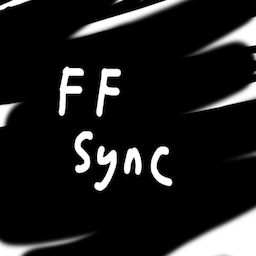
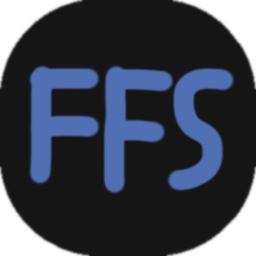
Reorganisation & Sm stuff

diff --git a/extension/popup/index.html b/extension/popup/index.html
@@ -1,32 +1,37 @@
-<!DOCTYPE html>
+<!doctype html>
 
 <head>
-    <link rel="stylesheet" href="index.css" />
+	<link rel="stylesheet" href="index.css" />
 </head>
 
 <html lang="en">
-    <body>
-        <div id="topbar" class="item">
-            <h3>FFSync</h3>
-            <p>Share Tabs Privately</p>
-        </div>
+	<body>
+		<div id="topbar" class="item">
+			<h3>FFSync</h3>
+			<p>Share Tabs Privately</p>
+		</div>
 
-        <div id="content" class="item">
-            <input type="text" placeholder="Enter homeserver" id="homeserver">
-            <div id="tabs">
-                <ul id="tablist" class="item">
-                    <li class="tab selected" data-tabid=-1>Current Tab</li>
-                </ul>
-            </div>
-            <button id="share"></button>
-        </div>
-        <sep ></sep>
-        <div id="status">
-            <p id="connection">No Connection.</p>
-            <p id="shared">No shared tab.</p>
-            <p id="duration">00:00 Elapsed.</p>
-        </div>
-    </body>
+		<div id="content" class="item">
+			<input type="text" placeholder="Enter homeserver" id="homeserver" />
+			<input
+				type="text"
+				placeholder="Homeserver password"
+				id="password"
+			/>
+			<div id="tabs">
+				<ul id="tablist" class="item">
+					<li class="tab selected" data-tabid="-1">Current Tab</li>
+				</ul>
+			</div>
+			<button id="share"></button>
+		</div>
+		<sep></sep>
+		<div id="status">
+			<p id="connection">No Connection.</p>
+			<p id="shared">No shared tab.</p>
+			<p id="duration">00:00 Elapsed.</p>
+		</div>
+	</body>
 </html>
 
-<script src="index.js"></script>
+<script src="index.js" type="module"></script>

diff --git a/extension/background.js b/extension/background.js
@@ -1,1 +1,1 @@
-"use strict";console.clear();console.log("[FFSync] BG Loaded");
+"use strict";(()=>{console.clear();console.log("[FFSync] BG Loaded");})();

diff --git a/extension/content.js b/extension/content.js
@@ -1,1 +1,1 @@
-"use strict";console.log("[FFSync] Content Loaded");
+"use strict";(()=>{console.log("[FFSync] Content Loaded");})();

diff --git a/extension/popup/index.js b/extension/popup/index.js
@@ -1,1 +1,1 @@
-"use strict";console.log("[FFSync] Index Loaded");const info_defaults={homeserver:"None",tab:"None",timestamp:Date.now()};let connection=false;async function connect(){connection=true;return{...info_defaults,homeserver:"https://relay.example.com",tab:"Tab Name"}}async function disconnect(){connection=false;return info_defaults}"use strict";let registry={ui_updater:setInterval(()=>{},Infinity)};function register_ui_updater(info){clearInterval(registry.ui_updater);registry.ui_updater=setInterval(update_ui,33,info)}"use strict";let connectivity_lock=false;function format_date(target_ms){const difference=Date.now()-target_ms;const hours=Math.floor(difference/36e5);const minutes=Math.floor(hours/6e4);const seconds=Math.floor(minutes/6e4);return`${hours.toString().padStart(2,"0")}:${minutes.toString().padStart(2,"0")}:${seconds.toString().padStart(2,"0")}`}function update_ui(info){if(!connectivity_lock){const homeserver=info.homeserver.replace(/https?:\/\//g,"").split(".");if(homeserver.length>2)homeserver.shift();document.getElementById("connection").textContent="Homeserver: "+homeserver.join(".").split("/")[0];document.getElementById("shared").textContent="Shared Tab: "+info.tab;document.getElementById("duration").textContent=format_date(Date.now())+" Elapsed";const share=document.getElementById("share");share.textContent=connection?"Disconnect":"Connect";connection?share.classList.add("sharing"):share.classList.remove("sharing")}}update_ui(info_defaults);async function onclick_share(){if(connectivity_lock)return connectivity_lock;connectivity_lock=true;const share=document.getElementById("share");share.classList.add("connecting");share.textContent=connection?"Disconnecting...":"Connecting...";let result;if(connection)result=await disconnect();else result=await connect();share.classList.remove("connecting");register_ui_updater(result);connectivity_lock=false;return connectivity_lock}document.getElementById("share").onclick=onclick_share;
+"use strict";(()=>{var c={homeserver:"None",tab:"None",timestamp:Date.now()},s=null,i={get(){return s},set(e,t){clearInterval(s??0),s=setInterval(t,66,e)}};console.log("[FFSync] Index Loaded	");var n=!1;async function l(){return n=!0,{...c,homeserver:"https://relay.example.com",tab:"Tab Name"}}async function d(){return n=!1,c}var r=!1;function h(e){let t=Date.now()-e,o=Math.floor(t/36e5),a=Math.floor(o/6e4),u=Math.floor(a/6e4);return`${o.toString().padStart(2,"0")}:${a.toString().padStart(2,"0")}:${u.toString().padStart(2,"0")}`}function m(e){let t=e.homeserver.replace(/https?:\/\//g,"").split(".");t.length>2&&t.shift(),document.getElementById("connection").textContent="Homeserver: "+t.join(".").split("/")[0],document.getElementById("shared").textContent="Shared Tab: "+e.tab,document.getElementById("duration").textContent=h(Date.now())+" Elapsed";let o=document.getElementById("share");o.textContent=n?"Disconnect":"Connect",n?o.classList.add("sharing"):o.classList.remove("sharing")}m(c);async function f(){if(r)return r;r=!0;let e=document.getElementById("share");e.classList.add("connecting"),e.textContent=n?"Disconnecting...":"Connecting...";let t;return n?t=await d():t=await l(),e.classList.remove("connecting"),i.set(t,m),r=!1,r}document.getElementById("share").onclick=f;})();